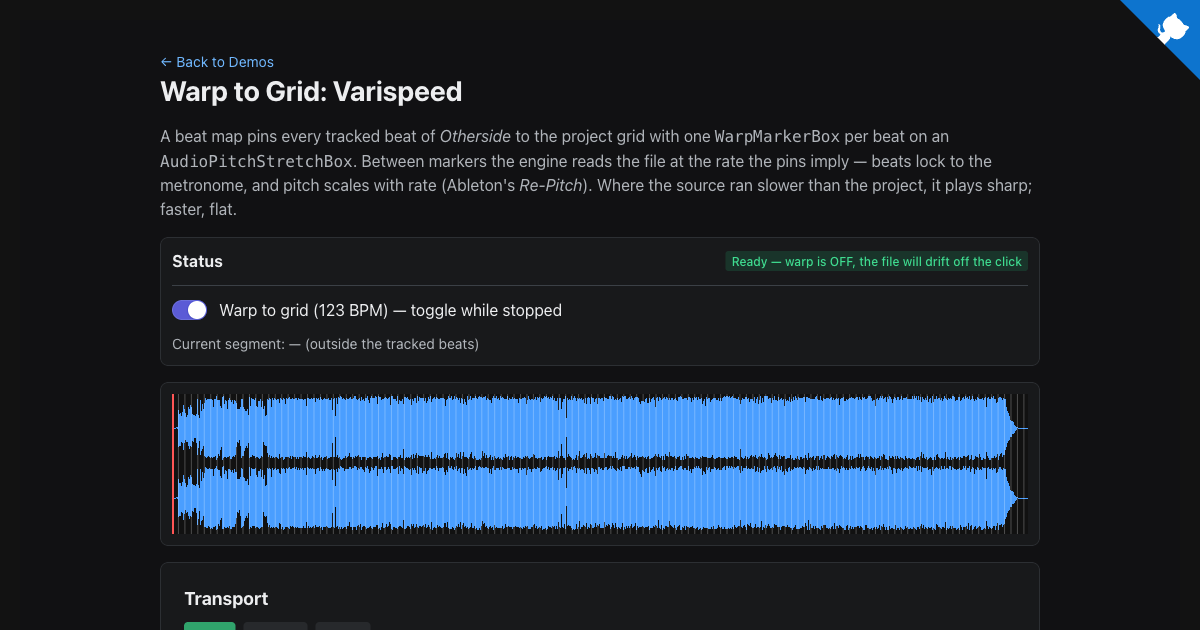
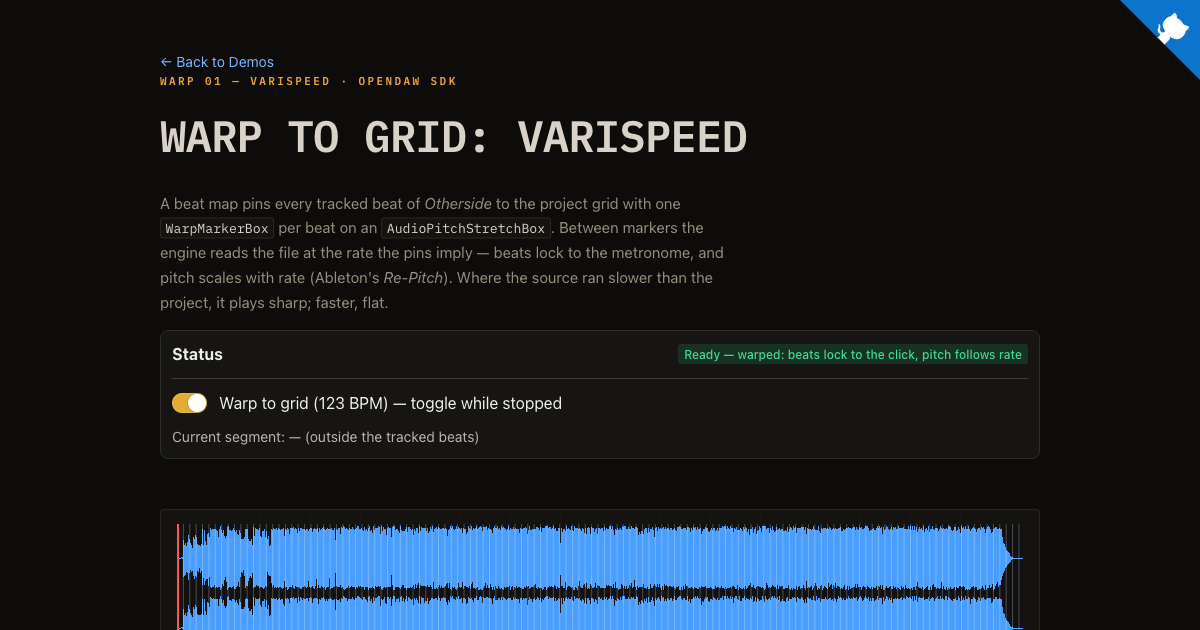
feat: apply mastering-console design to varispeed demo (wave 1)

Changed region(s): [[0.1233, 0.5429, 0.8633, 1.0], [0.1233, 0.1206, 0.8633, 0.5127]]

diff --git a/src/demos/warp/warp-varispeed-demo.tsx b/src/demos/warp/warp-varispeed-demo.tsx
@@ -33,9 +33,9 @@ import {
   Badge,
   Separator,
   Switch,
-  Link,
   Button,
 } from "@radix-ui/themes";
+import { CONSOLE_STYLES } from "@/lib/design/consoleTheme";
 
 const QUARTER = PPQN.Quarter; // 960
 const BAR = PPQN.fromSignature(4, 4); // 3840
@@ -199,20 +199,22 @@ function WarpVarispeedDemo() {
   }, [setup]);
 
   return (
-    <Theme appearance="dark" accentColor="iris">
+    <Theme appearance="dark" accentColor="amber" style={{ background: "var(--mc-bg)" }}>
+      <style>{CONSOLE_STYLES}</style>
       <Container size="3" py="6">
         <GitHubCorner />
         <BackLink />
         <Flex direction="column" gap="4">
-          <Heading size="7">Warp to Grid: Varispeed</Heading>
-          <Text color="gray">
+          <div className="mc-kicker">Warp 01 — Varispeed · OpenDAW SDK</div>
+          <h1 className="mc-title" style={{ fontSize: "clamp(28px, 4.5vw, 44px)" }}>WARP TO GRID: VARISPEED</h1>
+          <p className="mc-intro">
             A beat map pins every tracked beat of <em>Otherside</em> to the project grid
             with one <code>WarpMarkerBox</code> per beat on an{" "}
             <code>AudioPitchStretchBox</code>. Between markers the engine reads the file
             at the rate the pins imply — beats lock to the metronome, and pitch scales
             with rate (Ableton&apos;s <em>Re-Pitch</em>). Where the source ran slower than the
             project, it plays sharp; faster, flat.
-          </Text>
+          </p>
           {error && (
             <Card>
               <Text color="red">{error}</Text>
@@ -241,7 +243,7 @@ function WarpVarispeedDemo() {
             </Flex>
           </Card>
           {setup && (
-            <Card>
+            <div className="mc-lattice-frame">
               <WarpWaveform
                 project={setup.project}
                 fileUuid={setup.fileUuid}
@@ -251,7 +253,7 @@ function WarpVarispeedDemo() {
                 repaintKey={repaintKey}
                 onError={setError}
               />
-            </Card>
+            </div>
           )}
           <Card>
             <Flex direction="column" gap="3" p="3">
@@ -278,23 +280,21 @@ function WarpVarispeedDemo() {
               </Flex>
             </Flex>
           </Card>
-          <Card>
-            <Flex direction="column" gap="2">
-              <Heading size="4">The math (warp-markers ch 07)</Heading>
-              <Text size="2" color="gray">
-                Each segment&apos;s rate is <code>projectBpm / segmentBpm</code> — the ratio of
-                what the file supplies to what the grid allots. A rate above 1 plays the
-                source faster (and sharper, by <code>1200·log₂(rate)</code> cents). The
-                marker list itself is engine-agnostic: the{" "}
-                <Link href="/warp-timestretch-demo.html">time-stretch demo</Link> consumes
-                the identical anchors with pitch preserved, and the{" "}
-                <Link href="/warp-grid-follows-file-demo.html">grid-follows-file demo</Link>{" "}
-                inverts the direction entirely. See the{" "}
-                <Link href="/warp-demos.html">warp overview</Link> for which DAWs use each
-                approach and who reaches for it.
-              </Text>
-            </Flex>
-          </Card>
+          <section className="mc-anchors">
+            <h2 className="mc-anchors-head">The math (warp-markers ch 07)</h2>
+            <p>
+              Each segment&apos;s rate is <code>projectBpm / segmentBpm</code> — the ratio of
+              what the file supplies to what the grid allots. A rate above 1 plays the
+              source faster (and sharper, by <code>1200·log₂(rate)</code> cents). The
+              marker list itself is engine-agnostic: the{" "}
+              <a href="/warp-timestretch-demo.html">time-stretch demo</a> consumes
+              the identical anchors with pitch preserved, and the{" "}
+              <a href="/warp-grid-follows-file-demo.html">grid-follows-file demo</a>{" "}
+              inverts the direction entirely. See the{" "}
+              <a href="/warp-demos.html">warp overview</a> for which DAWs use each
+              approach and who reaches for it.
+            </p>
+          </section>
           <MoisesLogo />
         </Flex>
       </Container>

diff --git a/warp-varispeed-demo.html b/warp-varispeed-demo.html
@@ -32,11 +32,17 @@
     <meta name="twitter:image" content="https://opendaw-test.pages.dev/og-image-warp-varispeed.png" />
 
     <link rel="icon" type="image/svg+xml" href="/favicon.svg"/>
+    <!-- crossorigin required: the dev server is COOP/COEP cross-origin isolated -->
+    <link rel="preconnect" href="https://fonts.googleapis.com" crossorigin/>
+    <link rel="preconnect" href="https://fonts.gstatic.com" crossorigin/>
+    <link rel="stylesheet" crossorigin
+          href="https://fonts.googleapis.com/css2?family=IBM+Plex+Mono:wght@400;600&display=swap"/>
     <style>
         body {
             margin: 0;
             padding: 20px;
             min-height: 100vh;
+            background: #0d0c0a;
         }
     </style>
 </head>